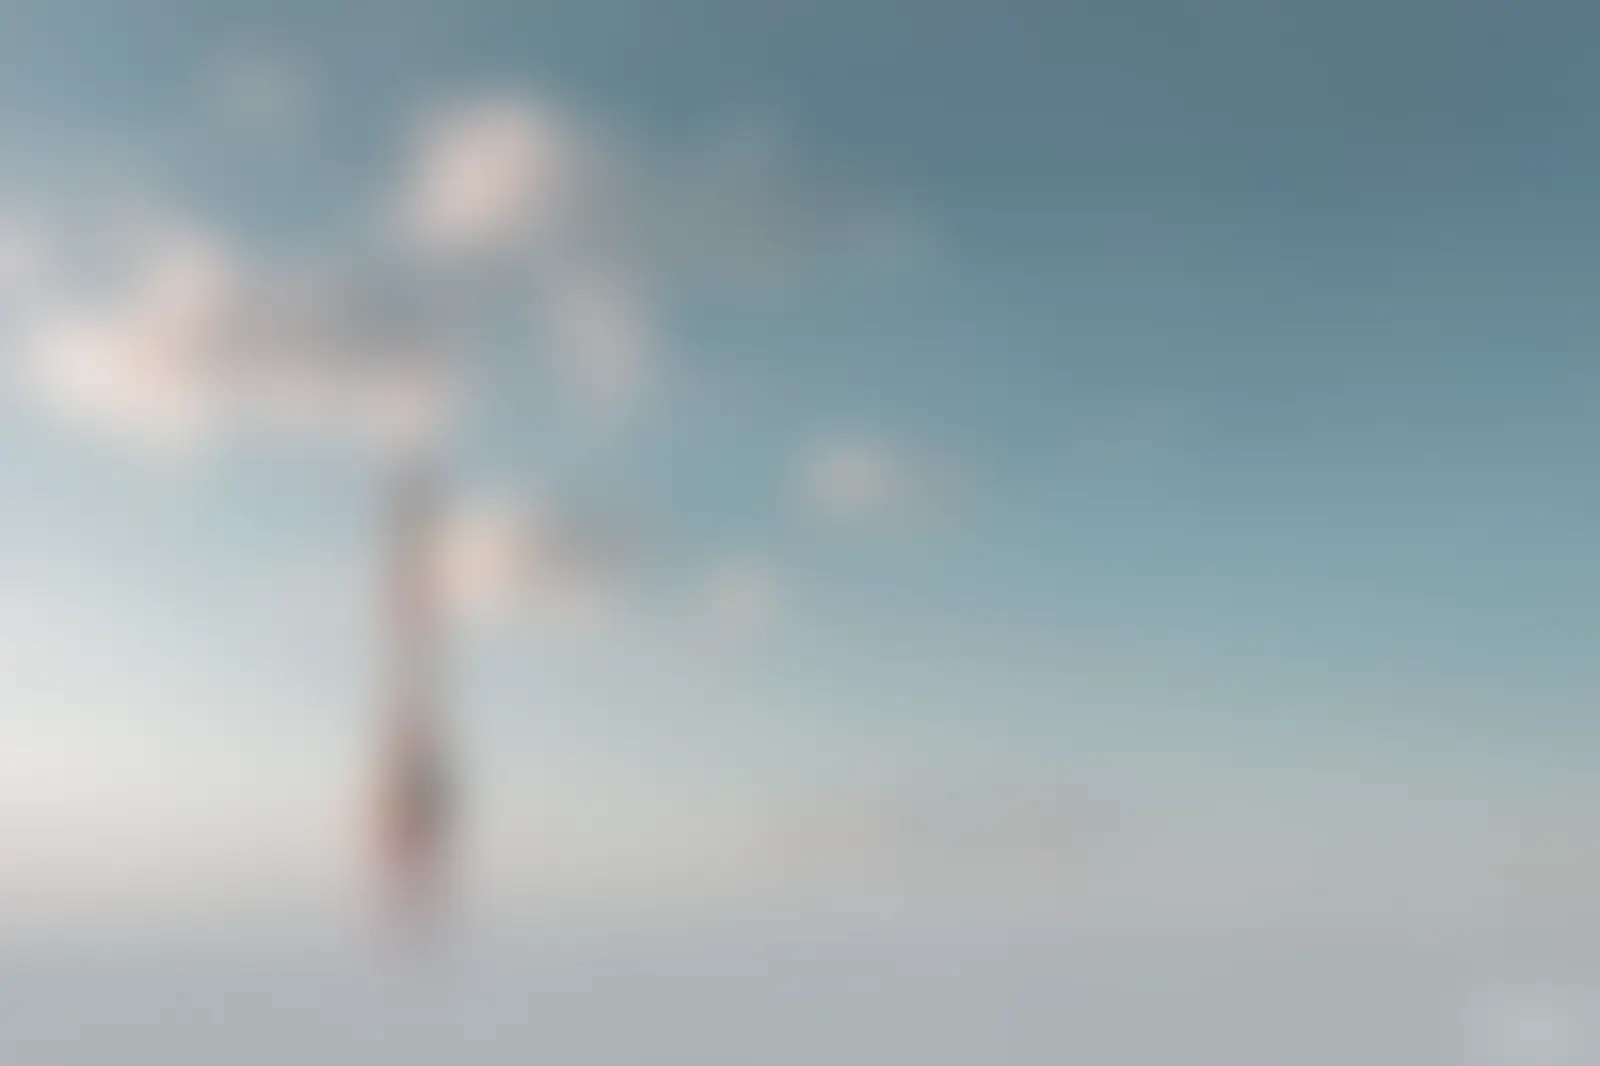
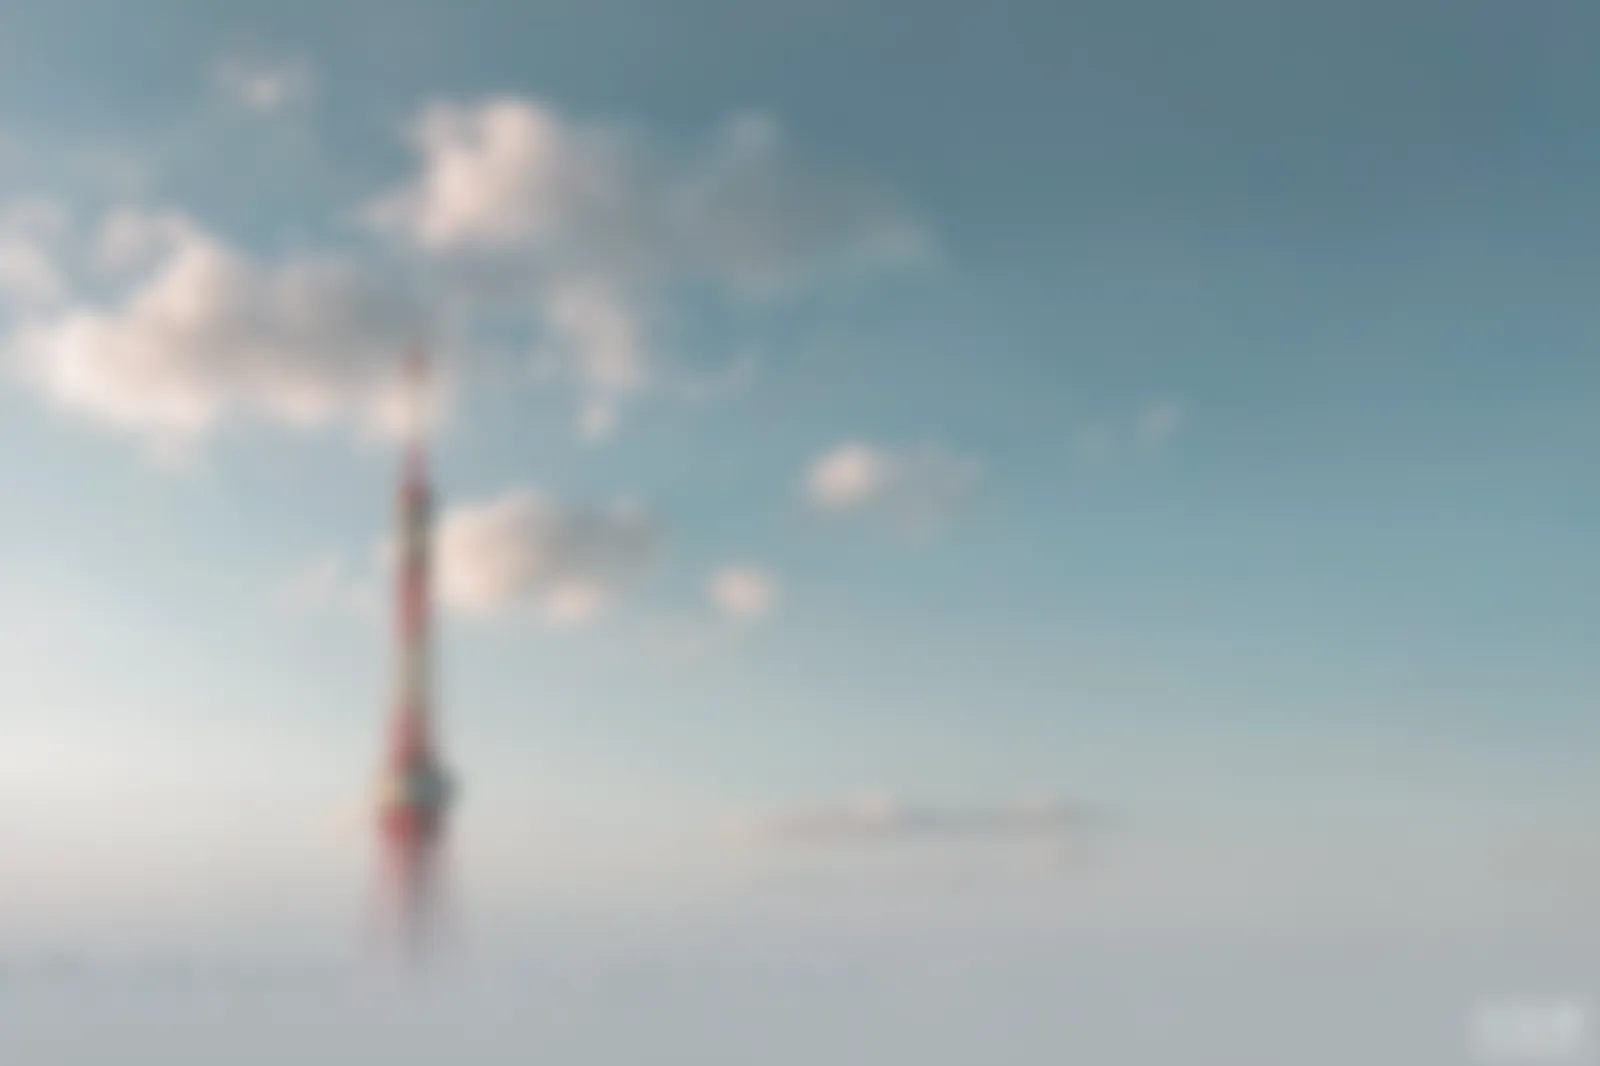
背景塔影更清晰：虚化半径 26→10，浅色遮罩调轻
- 重新生成虚化图（day 12KB / night 10KB），塔轮廓与红白结构可辨
- 浅色 veil 0.58/0.72/0.92 → 0.48/0.62/0.88，白天塔影更明显
- 版本号 bump 至 e

diff --git a/assets/css/styles.css b/assets/css/styles.css
@@ -229,9 +229,9 @@ body::before {
   background-image:
     var(--ambient-glow),
     linear-gradient(180deg,
-      rgba(245, 245, 247, 0.58) 0%,
-      rgba(245, 245, 247, 0.72) 52%,
-      rgba(245, 245, 247, 0.92) 100%),
+      rgba(245, 245, 247, 0.48) 0%,
+      rgba(245, 245, 247, 0.62) 52%,
+      rgba(245, 245, 247, 0.88) 100%),
     url("../bg/tokyo-day-blur.webp");
   background-size: auto, cover, cover, cover;
   background-position: center;

diff --git a/index.html b/index.html
@@ -38,7 +38,7 @@
     })();
   </script>
 
-  <link rel="stylesheet" href="assets/css/styles.css?v=20261021d">
+  <link rel="stylesheet" href="assets/css/styles.css?v=20261021e">
 </head>
 <body>
 
